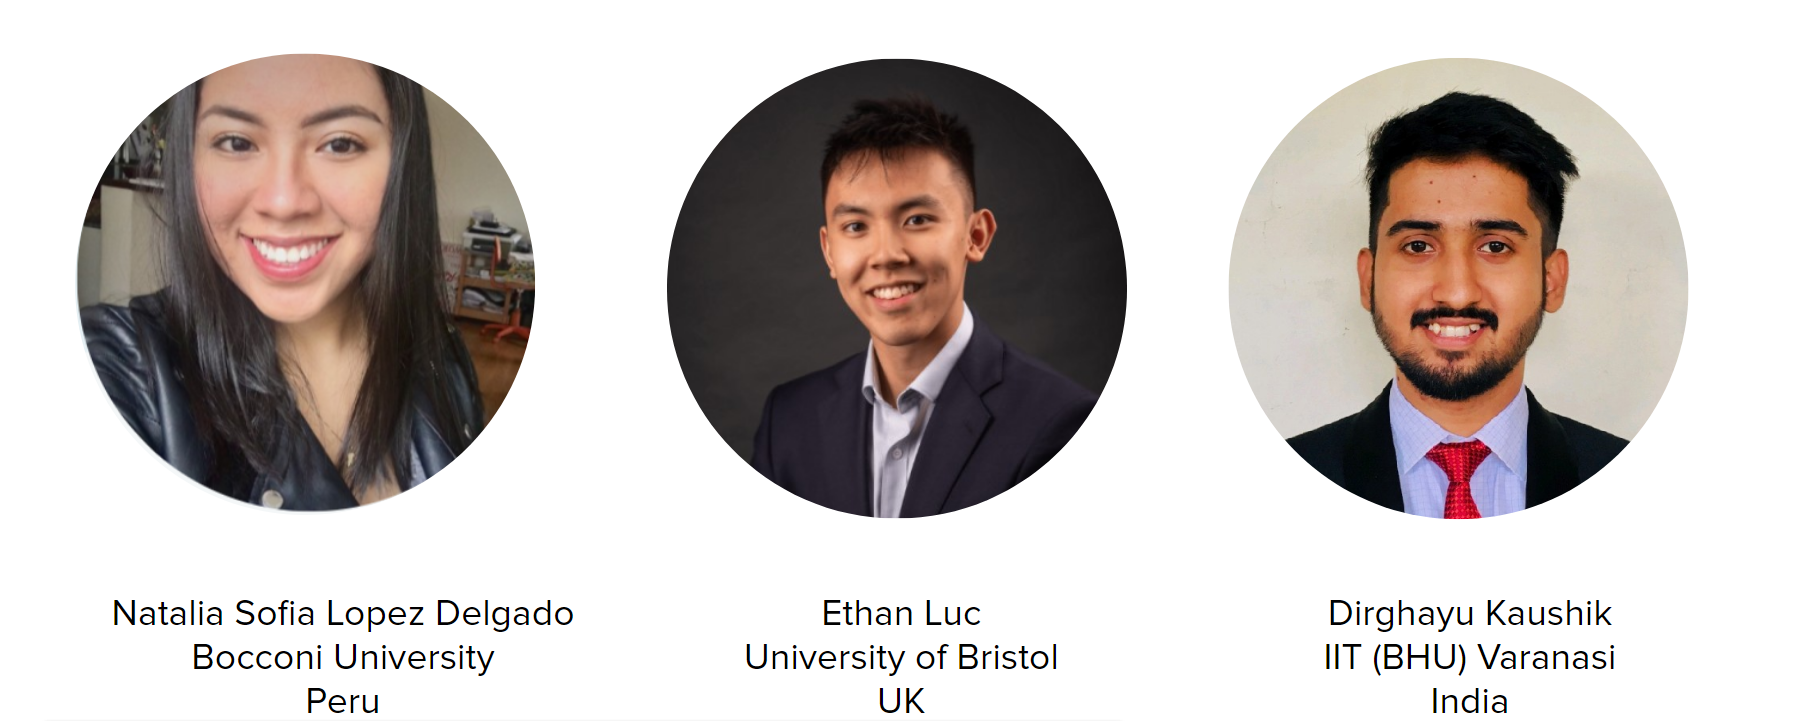
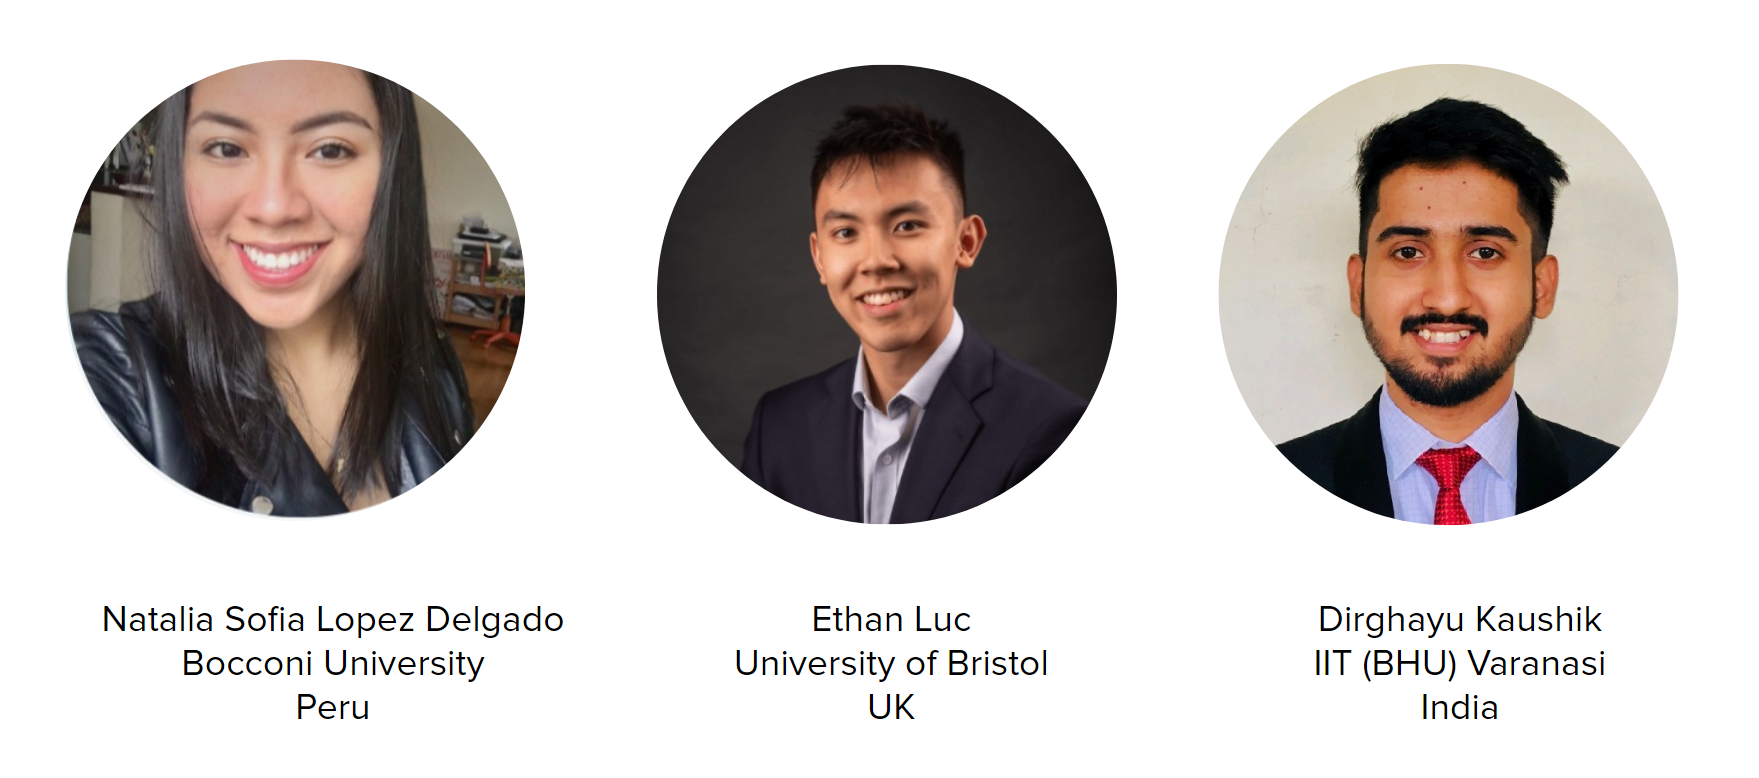
new screenshot and minor adjustments

diff --git a/index.html b/index.html
@@ -35,10 +35,12 @@
       <img class="rocket-mage" src="rocket.gif">
       <br>
       <h1 class="typewriter">¡Hola, somos EdAstra! </h1>
-      <p class="sub-line" style="text-align:justify"> ¿Estás luchando con las matemáticas? Los tutores privados son caros. EdAstra de proporciona tutoría
+      <p class="sub-line" style="text-align:justify"> ¿Estás luchando con las matemáticas? Los tutores privados son
+        caros. EdAstra de proporciona tutoría
         individual y económica brindada por los mejores estudiantes de todo el mundo.<br>
         <span style="color:#08b0fe;"><strong>
-          ¡Regístrate abajo! Nos comunicaremos contigo para agendar una sesión completamente gratuita lo más pronto posible.</strong></span></p>
+            ¡Regístrate abajo! Nos comunicaremos contigo para agendar una sesión completamente gratuita lo más pronto
+            posible.</strong></span></p>
       <!-- <br> -->
       <div class="form-container">
         <form class="form-container-2" name="submit-to-google-sheet">
@@ -54,15 +56,14 @@
         </div>
         <p class="js-success-message is-hidden">Success!</p>
         <p class="js-error-message is-hidden">Error!</p>
-      </div class="main-container">
+      </div>
     </div>
-
     <div class="about-us">
       <h2 style="color:black">Who are we?</h2>
       <img src="theteam.png" alt="Ethan" style="width:100%">
     </div>
-
   </div>
+
   <div class="faq-container">
     <section>
       <h2>

diff --git a/main.css b/main.css
@@ -59,7 +59,6 @@ h1 {
   background-size: 100% 70%;
   background-repeat: no-repeat;
   padding: 3% 5%;
-  padding-bottom: 0;
 }
 
 .rocket-mage {
